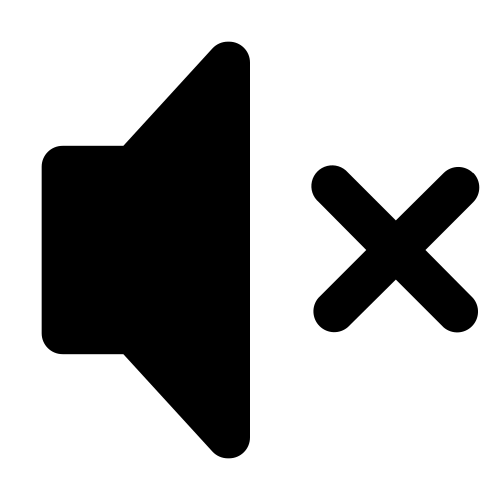
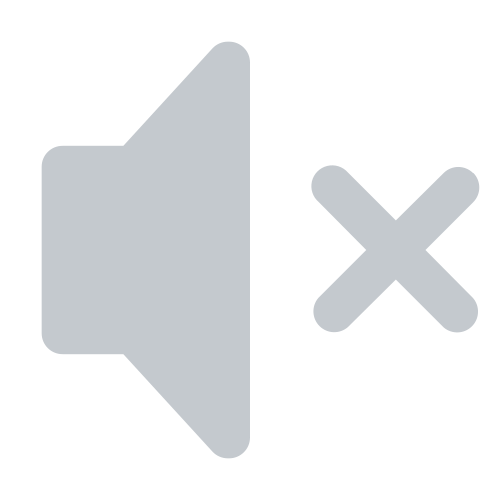
feat: fix audio-muted color, alphabetize list

diff --git a/colors.ts b/colors.ts
@@ -6,29 +6,29 @@ const defaults = {
 
 export default {
     'announcement-channel': defaults['channel-icon'],
-    'audio-max': defaults['primary-300'],
-    bell: defaults['interactive-normal'],
-    emoji: defaults['interactive-normal'],
-    folder: defaults['interactive-normal'], // Not an actually assigned color
+    'audio-muted': defaults['primary-300'],
+    'bell': defaults['interactive-normal'],
+    'calendar': defaults['interactive-normal'],
+    'clock': defaults['interactive-normal'],
+    'command': defaults['interactive-normal'],
+    'email': defaults['interactive-normal'],
+    'emoji': defaults['interactive-normal'],
+    'folder': defaults['interactive-normal'], // Not an actually assigned color
+    'forum-channel': defaults['channel-icon'],
+    'location': defaults['interactive-normal'],
+    'mention': defaults['interactive-normal'],
     'owner-crown': '40 86.4% 56.9%',
-    pin: defaults['interactive-normal'],
+    'people': defaults['interactive-normal'],
+    'person': defaults['interactive-normal'],
+    'pin': defaults['interactive-normal'],
+    'role': defaults['interactive-normal'], // Not an actually assigned color
     'rules-channel': defaults['channel-icon'],
     'server-booster': '302 100% 72.5%',
     'stage-channel': defaults['channel-icon'],
-    sticker: defaults['interactive-normal'],
+    'sticker': defaults['interactive-normal'],
     'text-channel': defaults['channel-icon'],
+    'text': defaults['interactive-normal'],
+    'thread': defaults['channel-icon'], // For standardization, uses slightly different colors
     'voice-channel': defaults['channel-icon'],
-    'forum-channel': defaults['channel-icon'],
-    warning: null,
-    email: defaults['interactive-normal'],
-    person: defaults['interactive-normal'],
-    role: defaults['interactive-normal'], // Not an actually assigned color
-    mention: defaults['interactive-normal'],
-    text: defaults['interactive-normal'],
-    people: defaults['interactive-normal'],
-    location: defaults['interactive-normal'],
-    calendar: defaults['interactive-normal'],
-    command: defaults['interactive-normal'],
-    clock: defaults['interactive-normal'],
-    thread: defaults['channel-icon'], // For standardization, uses slightly different colors
+    'warning': null,
 } as Record<string, string | null>;
